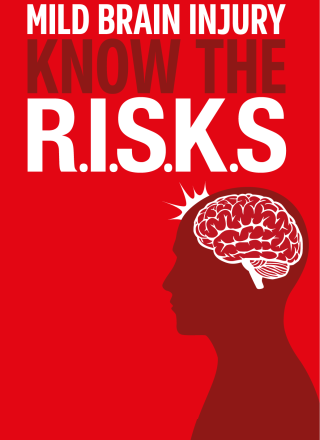
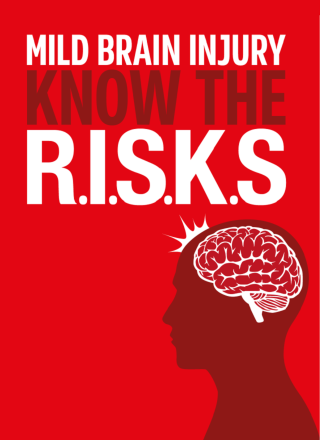
stop splash screen jump transition to home screen

diff --git a/Monotouch/RisksApp/RisksApp/HomeViewController.cs b/Monotouch/RisksApp/RisksApp/HomeViewController.cs
@@ -9,6 +9,7 @@ namespace RisksApp
 	{
 		public HomeViewController () : base ("HomeViewController", null)
 		{
+
 		}
 
 		public override void DidReceiveMemoryWarning ()
@@ -21,7 +22,6 @@ namespace RisksApp
 		public override void ViewDidLoad ()
 		{
 			base.ViewDidLoad ();
-		
 
 			if (UIScreen.MainScreen.Bounds.Height == 568)
 				((UIImageView)ImageView).Image = UIImage.FromBundle ("Images/home-586h");
@@ -32,8 +32,9 @@ namespace RisksApp
 		}
 
 		public override void ViewWillLayoutSubviews ()
-		{	ImageView.Frame = new RectangleF (new PointF (0, 0), new SizeF(ImageView.Bounds.Size.Width, UIScreen.MainScreen.Bounds.Height-40));
-			GroupView.Frame = new RectangleF (0, UIScreen.MainScreen.Bounds.Height - ((UIDevice.CurrentDevice.CheckSystemVersion (7, 0) ? 40 : 60) + GroupView.Bounds.Height), GroupView.Bounds.Width, GroupView.Bounds.Height);
+		{	
+			ImageView.Frame = new RectangleF (new PointF (0, UIDevice.CurrentDevice.CheckSystemVersion (7, 0) ? 0 : -20), new SizeF(ImageView.Bounds.Size.Width, UIScreen.MainScreen.Bounds.Height-40));
+		 	GroupView.Frame = new RectangleF (0, UIScreen.MainScreen.Bounds.Height - ((UIDevice.CurrentDevice.CheckSystemVersion (7, 0) ? 40 : 60) + GroupView.Bounds.Height), GroupView.Bounds.Width, GroupView.Bounds.Height);
 			base.ViewWillLayoutSubviews ();
 		}
 

diff --git a/Monotouch/RisksApp/RisksApp/SupportViewController.designer.cs b/Monotouch/RisksApp/RisksApp/SupportViewController.designer.cs
@@ -1,18 +1,26 @@
-// WARNING
+// WARNING
 //
-// This file has been generated automatically by MonoDevelop to store outlets and
-// actions made in the Xcode designer. If it is removed, they will be lost.
+// This file has been generated automatically by Xamarin Studio to store outlets and
+// actions made in the UI designer. If it is removed, they will be lost.
 // Manual changes to this file may not be handled correctly.
 //
 using MonoTouch.Foundation;
+using System.CodeDom.Compiler;
 
 namespace RisksApp
 {
 	[Register ("SupportViewController")]
 	partial class SupportViewController
 	{
+		[Outlet]
+		MonoTouch.UIKit.UITableView tableView { get; set; }
+		
 		void ReleaseDesignerOutlets ()
 		{
+			if (tableView != null) {
+				tableView.Dispose ();
+				tableView = null;
+			}
 		}
 	}
 }

diff --git a/Monotouch/RisksApp/RisksApp/SupportViewController.cs b/Monotouch/RisksApp/RisksApp/SupportViewController.cs
@@ -5,7 +5,7 @@ using MonoTouch.UIKit;
 
 namespace RisksApp
 {
-	public partial class SupportViewController : UITableViewController
+	public partial class SupportViewController : UIViewController
 	{
 		private const String cellIdentifier = "SupportTableCell";
 
@@ -29,8 +29,8 @@ namespace RisksApp
 
 			View.ClipsToBounds = true;
 			// Perform any additional setup after loading the view, typically from a nib.
-			TableView.SeparatorStyle = UITableViewCellSeparatorStyle.None;
-			TableView.Source = new TableSource (this);
+			tableView.SeparatorStyle = UITableViewCellSeparatorStyle.None;
+			tableView.Source = new TableSource (this);
 		}
 
 		public class TableSource : UITableViewSource {

diff --git a/Monotouch/RisksApp/RisksApp/RisksAppViewController.cs b/Monotouch/RisksApp/RisksApp/RisksAppViewController.cs
@@ -87,7 +87,7 @@ namespace RisksApp
 
 			var directoryView = new MapViewController();
 				//var directoryView = new DirectoryViewController();
-			directoryView.ModalTransitionStyle = UIModalTransitionStyle.PartialCurl;
+			directoryView.ModalTransitionStyle = UIModalTransitionStyle.CoverVertical;
 			PresentViewController(directoryView, true, null);
 		}
 	}

diff --git a/Monotouch/RisksApp/RisksApp/Map/MapViewController.xib.cs b/Monotouch/RisksApp/RisksApp/Map/MapViewController.xib.cs
@@ -108,8 +108,6 @@ namespace RisksApp.UI {
 	  this.mapView.ShowsUserLocation = true;
       this.activityIndicator.HidesWhenStopped = true;
 	 
-	 
-
       this.locateButton.Clicked += HandleLocateButtonClicked;
 		
       CenterOnUserLocation ();
